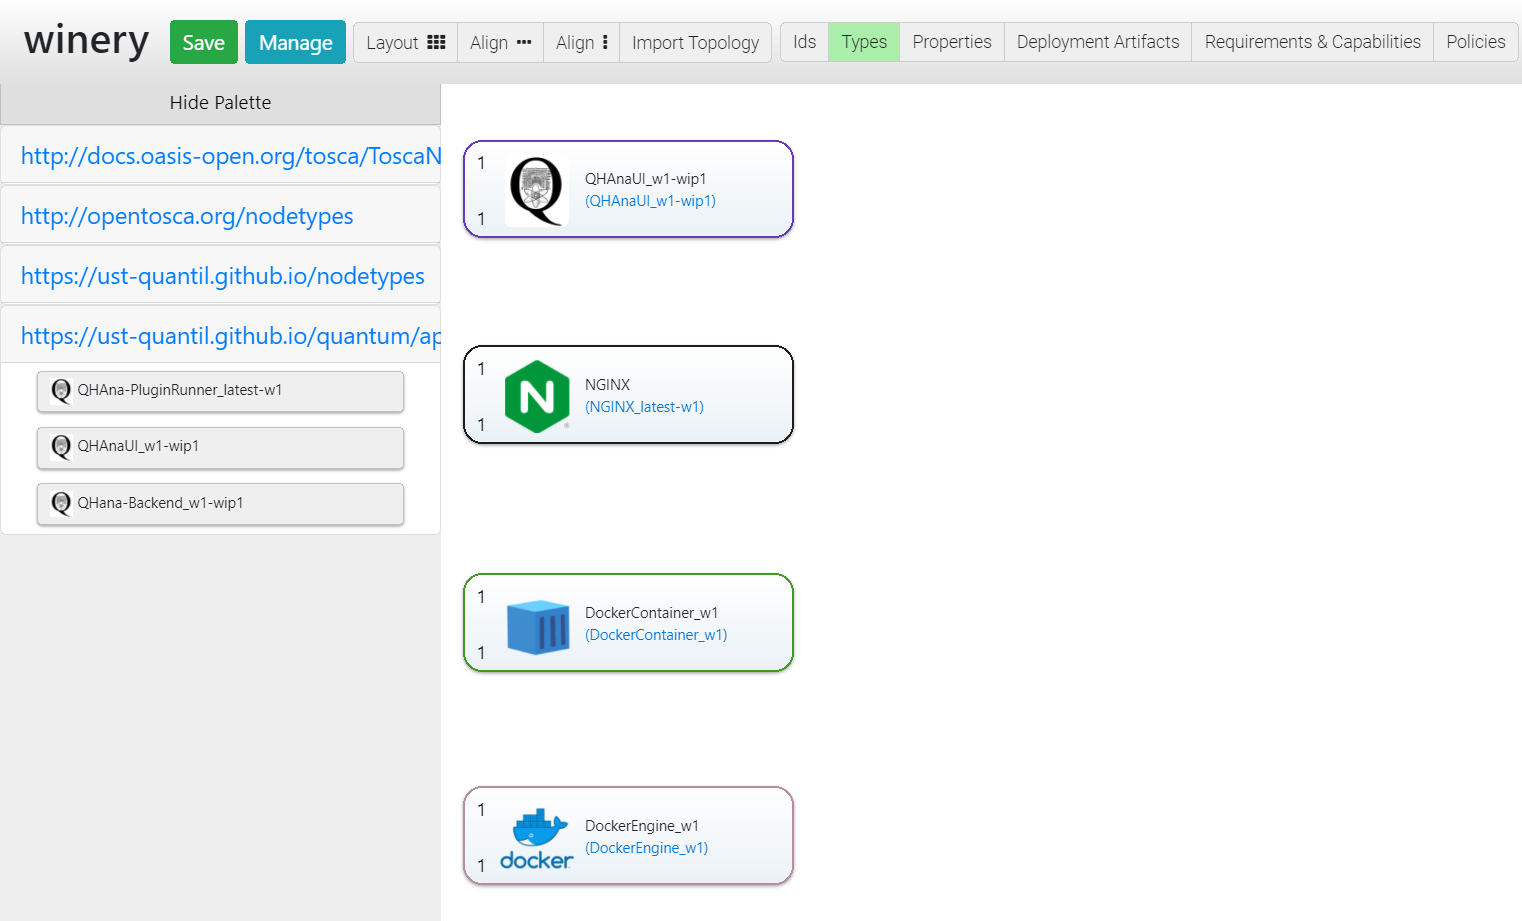
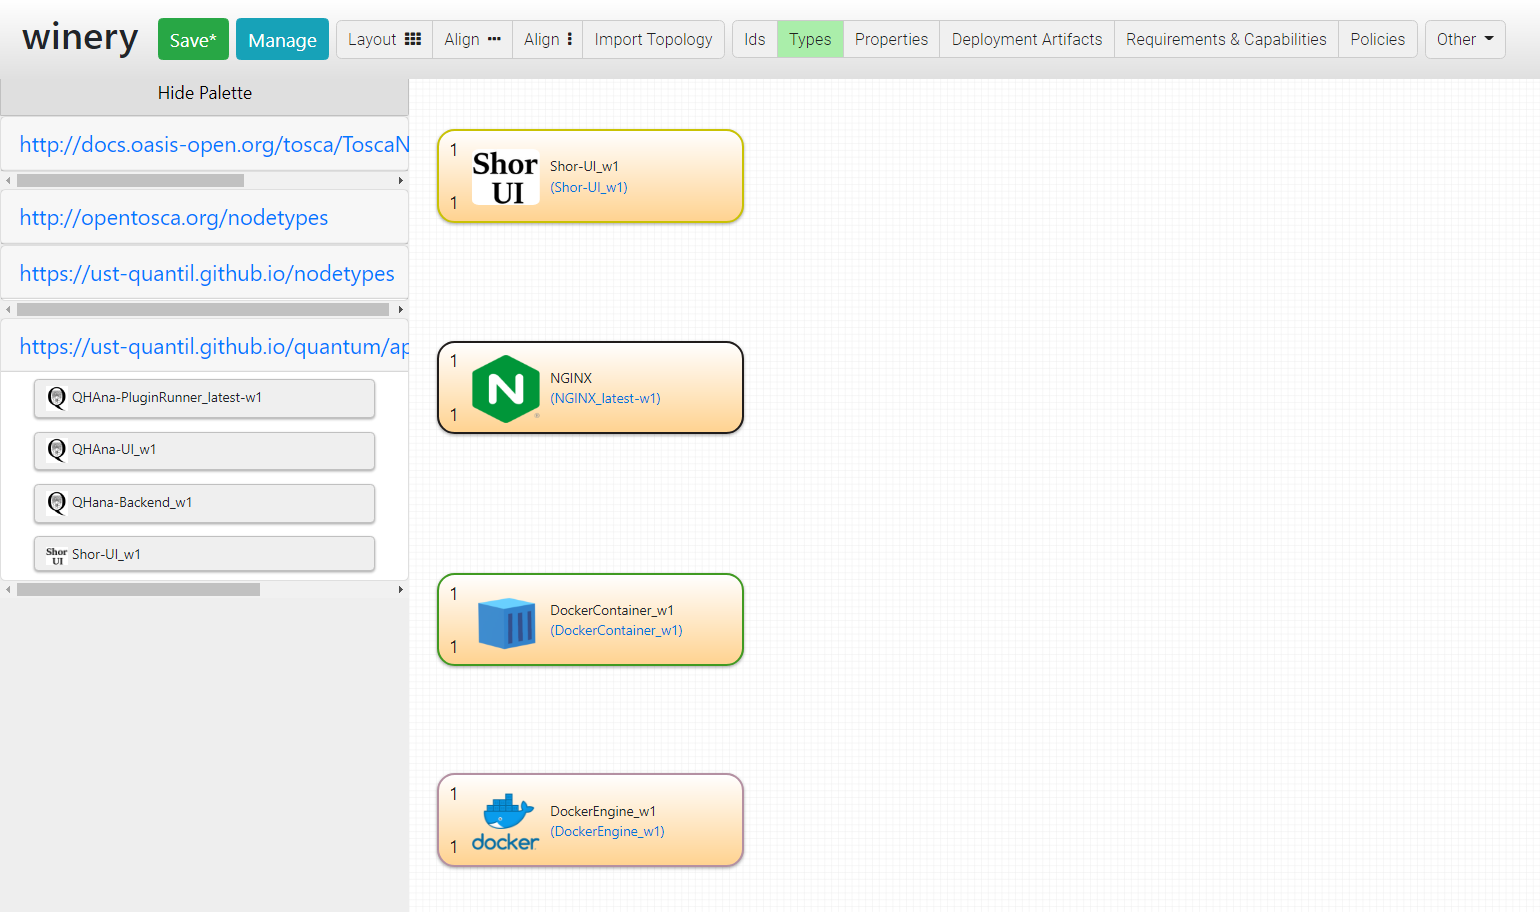
Refactor qhana tutorial to be based on the shor ui

diff --git a/docs/tutorial-model-and-deploy.md b/docs/tutorial-model-and-deploy.md
@@ -1,7 +1,7 @@
 # Tutorial: Model and Deploy an Application with OpenTOSCA
 
 This tutorial takes you through the steps to model and deploy a simple application using OpenTOSCA in the development docker-compose setup.
-The application modeled in this tutorial is a simple Angular app hosted on NGINX running inside a docker container.
+The application modeled in this tutorial is the shor example that can also be found in the PlanQK marketplace.
 
 :information_source: Terms in *italics* can be found in the [glossary](tosca-glossary.md).
 
@@ -33,7 +33,7 @@ Fill in the following values:
 
 | Name | Value | Explanation |
 |:-----|:------|:------------|
-| Name | QHAna-Frontend | Service Template Name. No spaces allowed. |
+| Name | shor-example | Service Template Name. No spaces allowed. |
 | Versioning | latest | Enables versioning and creates a "latest" version. (This is optional) |
 | Namespace | `https://ust-quantil.github.io/quantum/applications/servicetemplates` | Namespace where the Service Template should be put into. Can be found in the "Administration" tab of the Winery or in the [admin/namespaces/Namespaces.json](../admin/namespaces/Namespaces.json) file of this repository. |
 
@@ -41,34 +41,34 @@ Fill in the following values:
 
 Now it is possible to create a "README", "LICENCE" and "Documentation" as needed.
 If you choose a predefined license make sure to fill in the correct copyright information.
-This step may be omitted when only following this tutorial for testing purposes.
+This step may be omitted when following this tutorial for testing purposes, but is required for apps that should be publicly available.
 
 Fill in information about the application in the Service Template in the "Self-Service Portal" tab.
 Set a name, a description and optionally an icon and preview image.
 The self-service portal information is used later in the OpenTOSCA UI.
 Make sure to save your changes.
 
-![qhana service template with the self-service portal tab open](./images/self-service-tab.png)
+![shor service template with the self-service portal tab open](./images/self-service-tab.png)
 
 :bangbang: Make sure to save the self-service portal information or your changes will be lost.
 
 
 ### 3. Define the Topology
 
-Open the "Topology Template" tab of the QHAna-Frontend *Service Template* and open the topology editor by clicking the "Open Editor" button.
+Open the "Topology Template" tab of the shor-example *Service Template* and open the topology editor by clicking the "Open Editor" button.
 The editor will open in a new tab.
 
 :warning: The editor does not auto-save. Make sure to **manually save** all changes **before leaving** the editor!
 
 The nodes on the left are grouped by the namespaces they are in.
-Drag the following nodes from the pallete on the left into the canvas:
+Drag the following nodes from the pallete on the left into the canvas to model the shor UI:
 
 | Node | Namespace | Explanation |
 |:-----|:----------|:------------|
 | DockerEngine_w1 | `http://opentosca.org/nodetypes` | The docker engine responsible for building and running the container.|
-| DockerContainer_w1 | `http://opentosca.org/nodetypes` | The docker container hosting the QHAna frontend code. |
-| NGINX_latest-w1 | `http://opentosca.org/nodetypes` | The webserver delivering the QHAna frontend code. |
-| QHAnaUI_w1 | `https://ust-quantil.github.io/quantum/applications/nodetypes` | The QHAna frontend code. The node type is derived from `{http://opentosca.org/nodetypes}NGINX-Application_w1` |
+| DockerContainer_w1 | `http://opentosca.org/nodetypes` | The docker container hosting the Shor UI code. |
+| NGINX_latest-w1 | `http://opentosca.org/nodetypes` | The webserver delivering the Shor UI code. |
+| Shor-UI_w1 | `https://ust-quantil.github.io/quantum/applications/nodetypes` | The Shor UI code. The node type is derived from `{http://opentosca.org/nodetypes}NGINX-Application_w1` |
 
 ![topology with node templates and an open node template palette on the left](./images/topology-nodes-only-with-open-palette.png)
 
@@ -79,11 +79,39 @@ Click on a *Node Template* to edit its *Properties* and to create new *Relations
 Next we will connect the nodes with *Relationship Templates* to define the dependencies and deployment order of the nodes.
 
 Connect all node templates in the topology with "HostedOn" relationship templates.
-Start with the QHAnaUI_w1 node template that is "HostedOn" the NGINX_latest-w1 node template that is "HostedOn" the DockerContainer_w1 node template that is "HostedOn" the DockerEngine_w1 node template.
+Start with the Shor-UI_w1 node template that is "HostedOn" the NGINX_latest-w1 node template that is "HostedOn" the DockerContainer_w1 node template that is "HostedOn" the DockerEngine_w1 node template.
 The different *relationship types* are explained in the glossary.
 
 ![topology with connected node templates](./images/topology-nodes-with-relationships.png)
 
+
+We also need to model the actual shor service.
+For this we need the following additional nodes:
+
+| Node | Namespace | Explanation |
+|:-----|:----------|:------------|
+| DockerContainer_w1 | `http://opentosca.org/nodetypes` | The docker container hosting the Shor code. |
+| Python_3-w1 | `http://opentosca.org/nodetypes` | The python interpreter running the shor algorithm. |
+| Qiskit_latest-w1 | `https://ust-quantil.github.io/nodetypes` | The SDK required to run the shor algorithm. |
+| Qiskit-App_w1 | `https://ust-quantil.github.io/nodetypes` | The Shor algorithm. |
+| IBMQ_w1 | `https://ust-quantil.github.io/nodetypes` | The proxy node for the connection to the IBMQ cloud. |
+
+![complete topology with all node templates](./images/topology-nodes-complete.png)
+
+Now connect all the nodes with accordingly:
+
+| Node | Connection Type | Target Node | Comment |
+|:-----|:---------------:|:------------|:--------|
+| Python_3-w1 | HostedOn | DockerContainer_w1 |  |
+| Qiskit_latest-w1 | HostedOn | DockerContainer_w1 |  |
+| Qiskit_latest-w1 | DependsOn | Python_3-w1 | Qiskit must be installed after python |
+| Qiskit_latest-w1 | HostedOn | IBMQ_w1 | Quiskit circuits are executed on the IBMQ infrastructure. See also [TOSCA4QC: Two Modeling Styles for TOSCA to Automate the Deployment and Orchestration of Quantum Applications](https://doi.org/10.1109/EDOC49727.2020.00024) for more information. |
+| Qiskit-App_w1 | HostedOn | Qiskit_latest-w1 | Qiskit_latest-w1 already depends on python and IBMQ so there is no need for additional connections on this node. |
+| Shor-UI_w1 | ConnectsTo | Qiskit-App_w1 | Models the connection between the shor UI and the backend service. |
+
+![full topology with all node templates connected](./images/topology-nodes-complete-with-relationships.png)
+
+:information_source: Save the changes made so far in the topology editor.
 
 ### 4. Set the Node Template Properties
 
@@ -94,36 +122,46 @@ Now fill in the other properties:
 
 | node template | property | value | explanation |
 |:--------------|:---------|:------|:------------|
-| DockerEngine_w1 | DockerEngineURL | `get_input: DockerEngineURL` | The URL to the docker engine that is used to create the containers. This tutorial uses the Docker-in-Docker (dind) container that is part of the OpenTOSCA docker-compose file. |
-| DockerContainer_w1 | ImageID | `ubuntu:20.04` | The base image to use. |
-| DockerContainer_w1 | ContainerPort | `80` | NGINX runs on port 80 so that port must be mapped outside. |
-| DockerContainer_w1 | Port | `get_input: Port` | The port exposed outside. Provided at deployment time by the end user (see explanation below). |
-| QHAnaUI_w1 | AppName | `qhana` | The app name is used as a folder name where the DA contants are extracted to. The app will be treated as the http root of NGINX. |
+| DockerEngine_w1 | DockerEngineURL | `get_input: DockerEngineURL` | The URL to the docker engine that is used to create the containers. This tutorial uses the Docker-in-Docker (dind) container that is part of the OpenTOSCA docker-compose file. Provided at deployment time by the end user (see explanation below). |
+| DockerContainer_w1 (ui) | ImageID | `ubuntu:20.04` | The base image to use. |
+| DockerContainer_w1 (ui) | ContainerPort | `80` | NGINX runs on port 80 so that port must be mapped outside. |
+| DockerContainer_w1 (ui) | Port | `get_input: FrontendPort` | The port exposed outside. Provided at deployment time. |
+| Shor-UI_w1 | AppName | `ShorAppUI` | The app name is used as a folder name where the DA contents are extracted to. The app will be treated as the http root of NGINX. |
+| DockerContainer_w1 (backend) | ImageID | `ubuntu:20.04` | The base image to use. |
+| DockerContainer_w1 (backend) | ContainerPort | `get_input: BackendPort` | The internal backend port (same as the exposed port). Provided at deployment. |
+| DockerContainer_w1 (backend) | Port | `get_input: BackendPort` | The port exposed outside. Provided at deployment time. |
+| Qiskit-App_w1 | Port | `get_input: BackendPort` | The port the qiskit app should bind to. Provided at deployment time. |
+| IBMQ_w1 | PROVIDER | `IBMQ` | The cloud provider to use. |
+| IBMQ_w1 | IBMQ_BACKNED_NAME | `get_input: IBMQ_BACKNED_NAME` | The name of the quantum computing resource that should be used. Provided at deployment time. |
+| IBMQ_w1 | IBMQ_TOKEN | `get_input: IBMQ_TOKEN` | The API token to use for authentication. Provided at deployment time. |
 
-:information_source: The value `get_input: Port` is a special value that is replaced by a user input before deploying the service template.
-The name of the user input comes after the colon `get_input: <custom name here>`.
-All properties with the same user input name in the same service template will **share** the value of the user input.
+:information_source: The value `get_input: <variable name here>` is a special value that is replaced by a user input before deploying the service template.
+The name of the user input comes after the colon `get_input: <variable name here>` (replace `<variable name here>` including the angled braces).
+All properties with the same variable name in the same service template will **share** the value of the user input.
+During deployment the user is asked to provide values for every variable defined in this way.
 
 ![topology with properties shown in node templates](./images/topology-with-properties.png)
 
+:information_source: Save the changes made so far in the topology editor.
 
-### 5. Add the Deployment Artifact
+
+### 5. Add the Deployment Artifacts
 
 *Deployment Artifacts* are used to provide the actual application code used by the node template.
 
 Next use the menu at the top to toggle the "DeploymentArtifacts" on (and hide the "Properties" again for better overview).
-Open the "Deployment Artifacts" of the QHAnaUI_w1 node template and click on "Add new Deployment Artifact".
+Open the "Deployment Artifacts" of the Qiskit-App_w1 node template and click on "Add new Deployment Artifact".
 
 ![node template with open deployment artifact section](./images/topology-add-deployment-artifact.png)
 
 
 | Input | Value |
 |:------|:------|
-| Name  | QHAna-UI_DA |
+| Name  | ShorQiskit_DA |
 | Create Artifact Template | :radio_button: |
 | Namespace | `https://ust-quantil.github.io/quantum/applications/artifacttemplates` |
-| Artifact Template Name | QHAna-UI_DA_template |
-| Artifact Type | ArchiveArtifact |
+| Artifact Template Name | ShorQiskit_DA_template |
+| Artifact Type | QiskitApp |
 
 ![filled out deployment artifact creation dialog](./images/add-deployment-artifact-dialog.png)
 
@@ -137,11 +175,12 @@ The created artifact template can be found under the "Other Elements" tab at the
 ![winery with other elements tab open](./images/other-elements-tab.png)
 
 Click on the "Artifact Templates" button and search for the created artifact template name.
-Open the files tab and upload the provided artifact template ([download link](https://github.com/UST-QuAntiL/tosca-definitions-qc-applications/raw/main/artifacttemplates/https%253A%252F%252Fust-quantil.github.io%252Fquantum%252Fapplications%252Fartifacttemplates/QHana-UI-DA_w1/files/qhana-ui.zip)).
-Use the "Dateien Auswählen" button on the left or the file drop area to upload the zip file.
-(Alternatively build the artifact template from source by zipping the build output [only the loose files and not a folder in a zip!] of a production build of the [QHAna-UI](https://github.com/UST-QuAntiL/qhana-ui#build).)
+It is also possible to navigate directly from the topology modeler to the *deployment artifact* by clicking on the `DA-Ref` in the node.
 
-![qhana frontend deployment artifact file upload](./images/da-template-files-tab.png)
+Open the files tab of the *deployment artifact* and upload the provided artifact template ([download link](https://raw.githubusercontent.com/UST-QuAntiL/tosca-definitions-qc-applications/main/artifacttemplates/https%253A%252F%252Fust-quantil.github.io%252Fquantum%252Fapplications%252Fartifacttemplates/ShorAlgo_Qiskit-w1/files/qiskit_app_algo.py)).
+Use the "Dateien Auswählen" button on the left or the file drop area to upload the python file.
+
+![shor deployment artifact file upload](./images/da-template-files-tab.png)
 
 Now the service template is ready to be deployed.
 
@@ -162,9 +201,9 @@ Go to the "Repository" tab to see the list of applications that can be imported 
 
 ![repository tab tab of the OpenTOSCA UI](./images/tosca-ui-repository-tab.png)
 
-Import the QHAna-Frontend application by clicking the :heavy_plus_sign: button of the card.
+Import the Example Shor Application (with the id `shor-example_latest-w1-wip1`) by clicking the :heavy_plus_sign: button of the card.
 Do **not** check "Apply Management Feature Enrichment".
-Wait for it to process before going to the next step.
+Wait for it to process (the button changes to a green checkmark) before going to the next step.
 
 Switch back to the "Applications" tab to verify that the application was imported correctly.
 
@@ -172,9 +211,9 @@ Switch back to the "Applications" tab to verify that the application was importe
 
 ### 7. Create a new Instance
 
-First click on the "Show details…" button of the QHAna-Frontend card (left of the trashcan button).
+First click on the "Show details…" button of the Example Shor Application card (left of the trashcan button).
 
-![first step of the create new instance dialog](./images/tosca-ui-qhana-frontend.png)
+![first step of the create new instance dialog](./images/tosca-ui-shor-frontend.png)
 
 Create a new instance by clicking the :heavy_plus_sign: "Provision new instance…" button.
 
@@ -185,8 +224,11 @@ Provide values for the properties defined with `get_input: …` (see [4. Set the
 
 | Property | Value | Explanation |
 |:---------|:------|:------------|
-| DockerEngineURL | `tcp://dind:2375` or `tcp://${PUBLIC_HOSTNAME}:2222` | The address of the dind container. |
-| Port     | `9990` | A port between `9990` and `9999` as only these ports are exposed by default in the dind container. (May be changed in the docker-compose file.) |
+| DockerEngineURL | `tcp://${PUBLIC_HOSTNAME}:2222` | The address of the (host of the) dind container. |
+| FrontendPort    | `9992` | A port between `9990` and `9999` as only these ports are exposed by default in the dind container. (May be changed in the docker-compose file.) |
+| BackendPort     | `9991` | A port between `9990` and `9999`. |
+| IBMQ_BACKNED_NAME     | `ibmq_qasm_simulator` | The online state vector simulator for quantum circuits. |
+| IBMQ_TOKEN     | `xxxxxxxx` | Your API token. |
 
 ![image dialog filled out](./images/tosca-ui-new-instance-dialog-properties.png)
 
@@ -195,9 +237,9 @@ To monitor the deployment click on the :arrows_counterclockwise: "Reload Instanc
 Each instance also has a "show details" button.
 The instance details page allows viewing the logs and outputs of running and completed management plans.
 
-![details page of the instance beeing created](./images/tosca-ui-qhana-instance.png)
+![details page of the instance beeing created](./images/tosca-ui-shor-instance.png)
 
 To watch the deployment in the console see the [Useful Commands](https://github.com/OpenTOSCA/opentosca-docker#useful-commands) section of the OpenTOSCA docker-compose repository.
 Attach to the logs of `container`, `engine-ia` and `engine-plan` in two seperate terminals with the provided commands for the best overview.
 
-To verify that your deployment was actually successful open <http://localhost:9990/> (change the port if you chose another port before) in your browser.
+To verify that your deployment was actually successful open <http://localhost:9992/> (change the port if you've chosen another port for the frontend before) in your browser.
